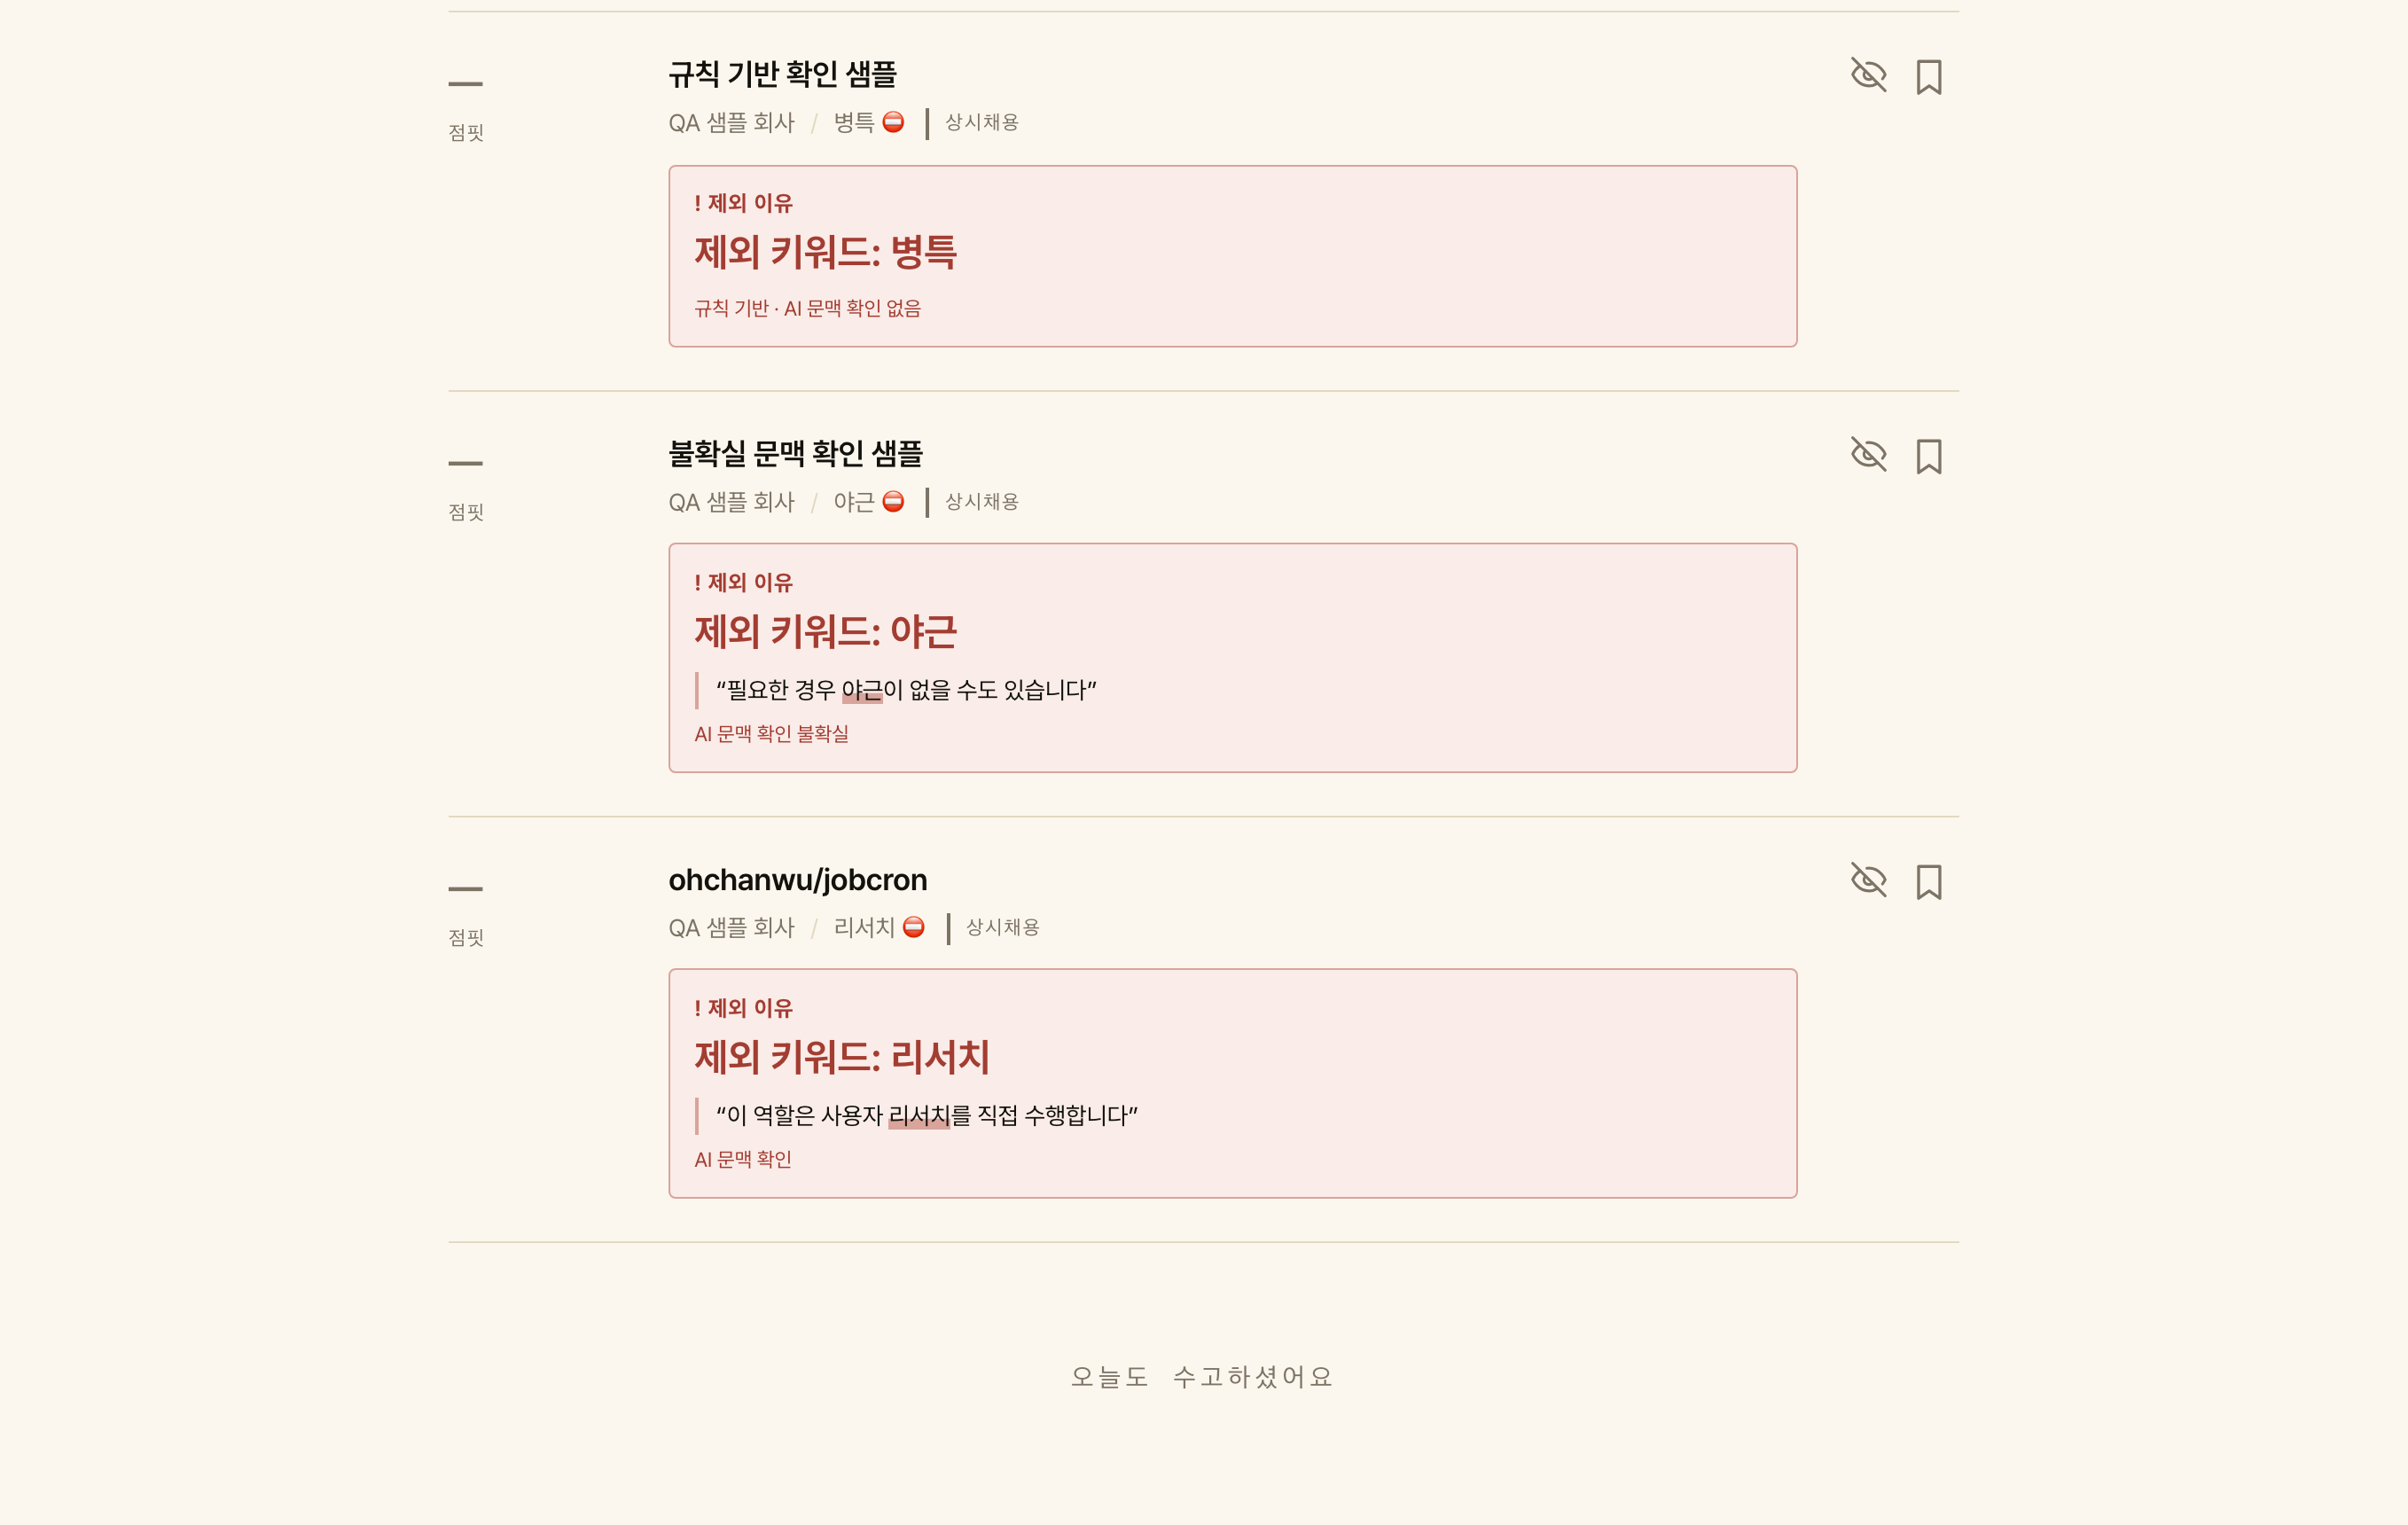
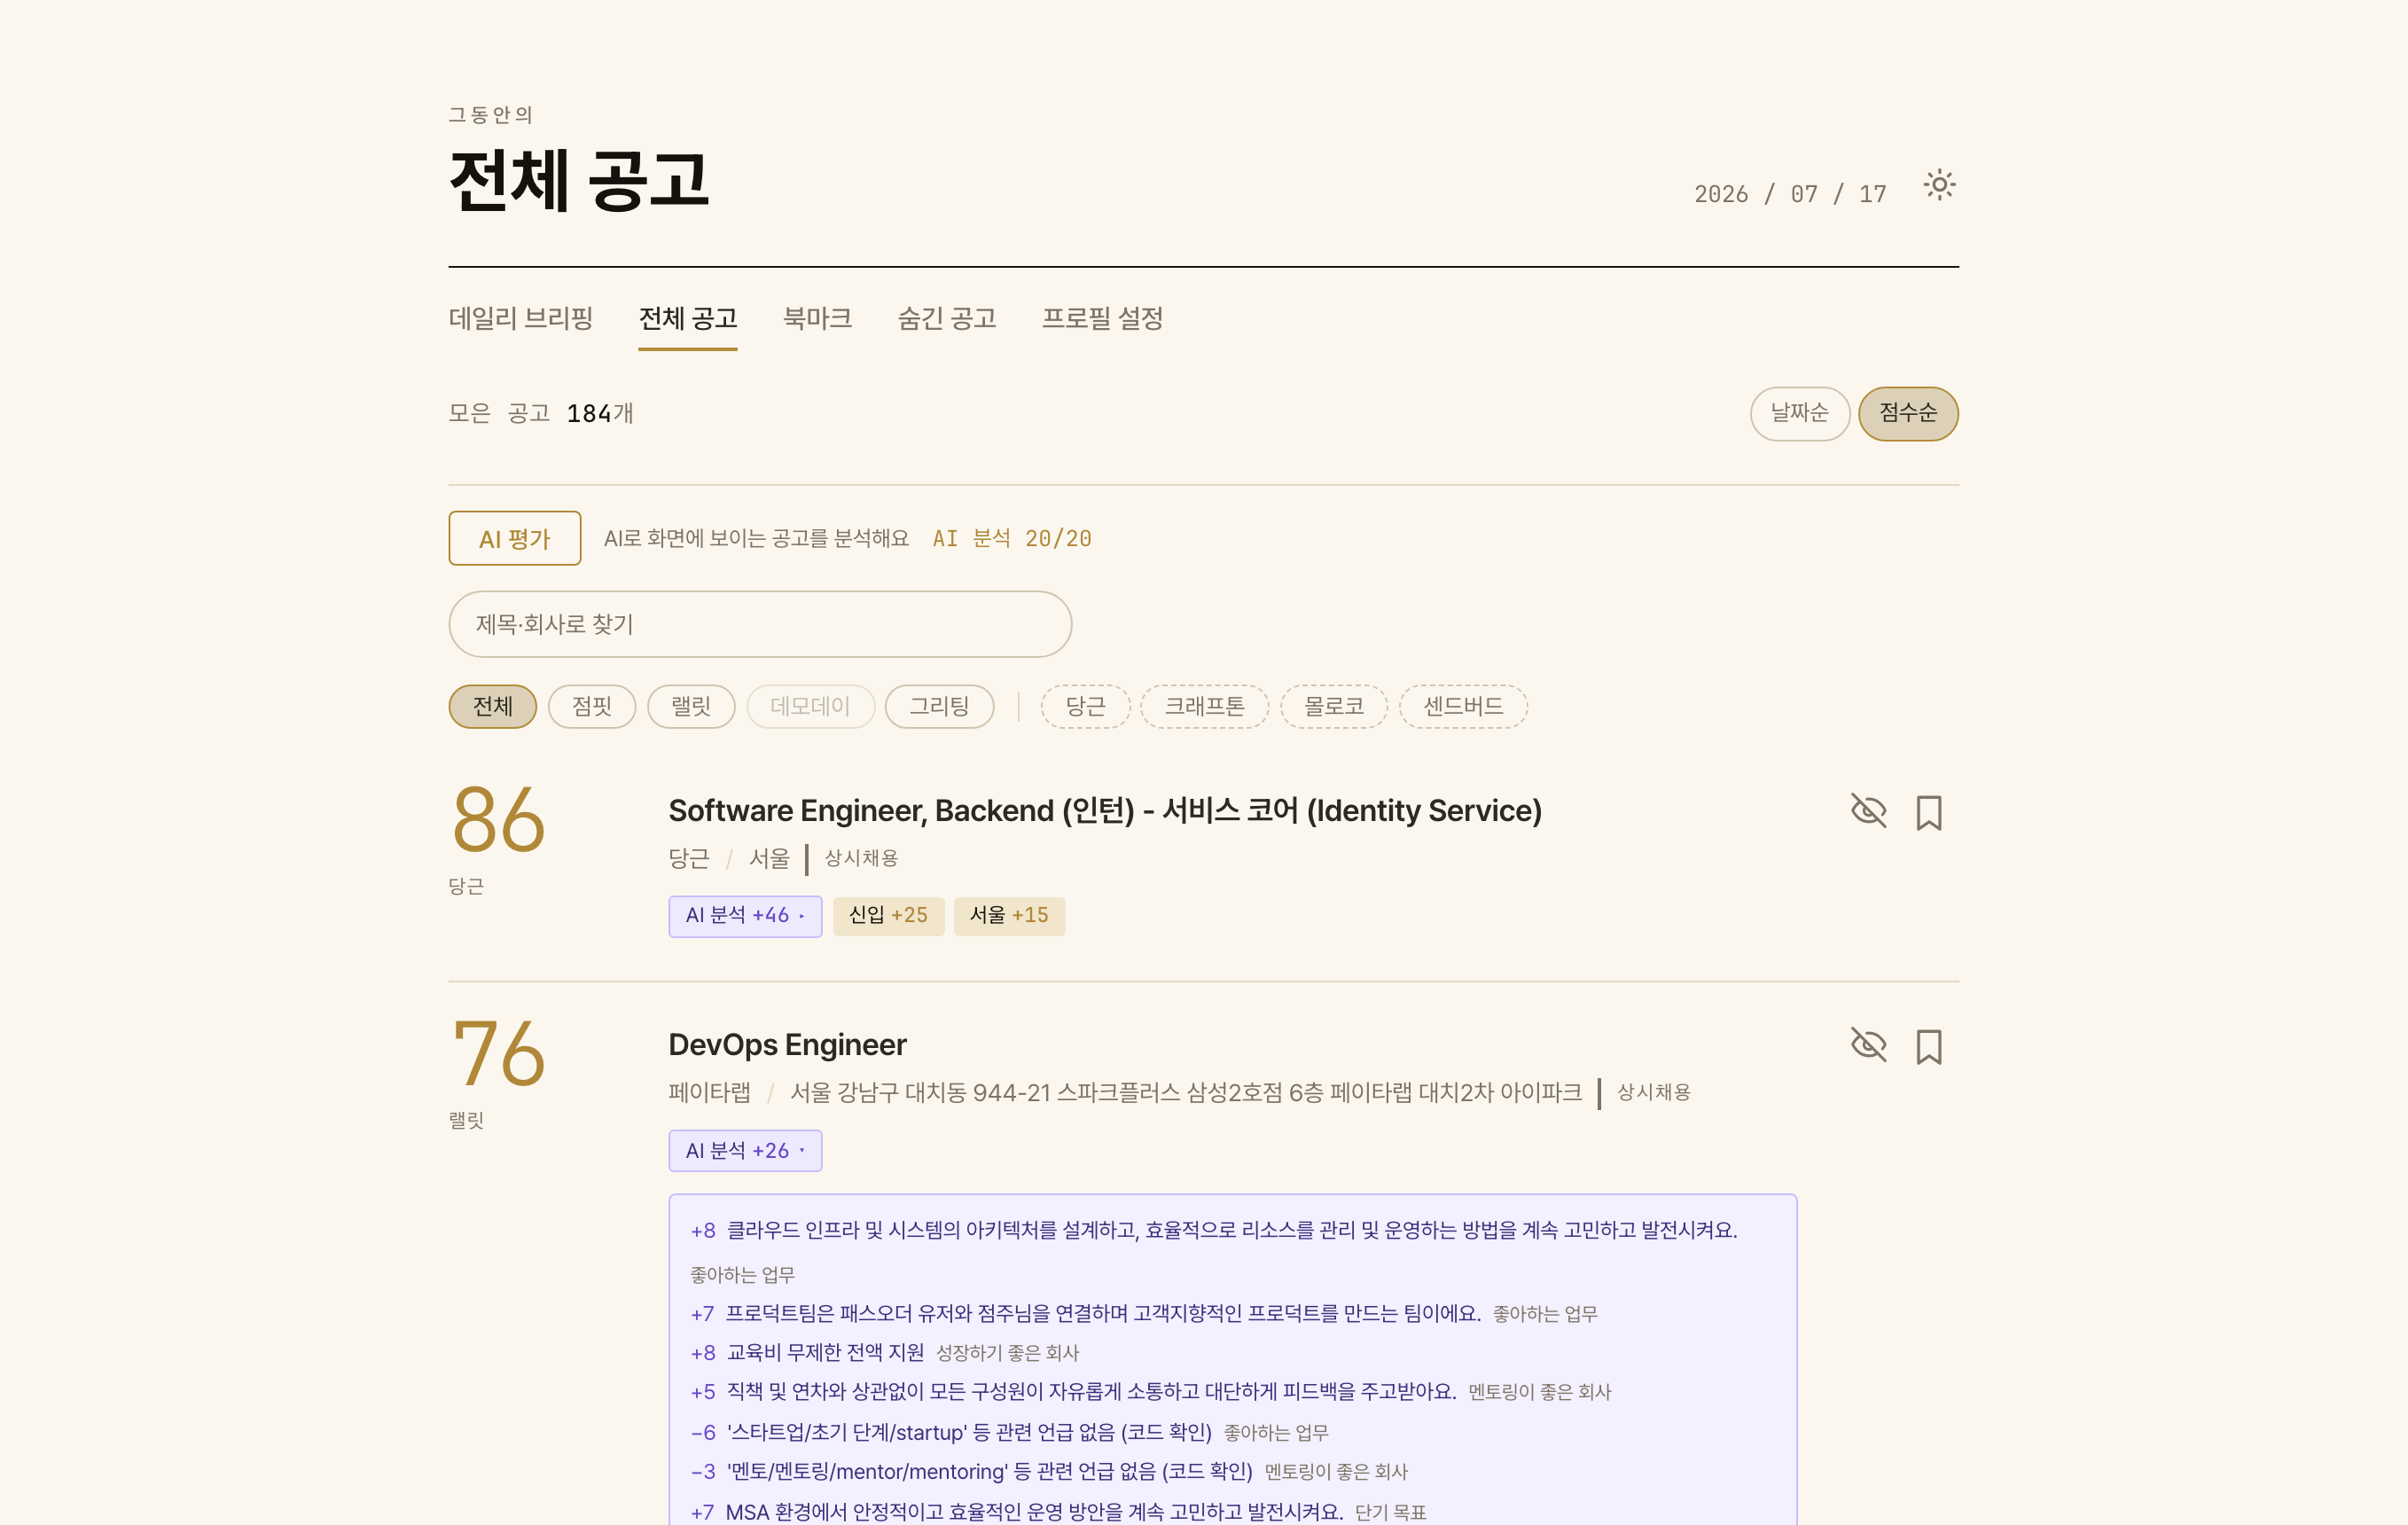
docs: restore README dashboard screenshots

diff --git a/README.ko.md b/README.ko.md
@@ -21,7 +21,7 @@ Jobcron은 한국 채용 플랫폼 [점핏 (Jumpit)](https://jumpit.saramin.co.k
 
 <picture>
   <source media="(prefers-color-scheme: dark)" srcset="docs/assets/screenshots/dashboard-dark.png">
-  <img src="docs/assets/screenshots/dashboard.png" alt="점수순으로 정렬된 전체 공고 페이지의 소스 필터와 AI 평가 칩">
+  <img src="docs/assets/screenshots/dashboard.png" alt="점수순으로 정렬된 전체 공고 페이지의 소스 필터와 펼쳐진 AI 평가 패널">
 </picture>
 
 ## 왜 만들었나 (Why)

diff --git a/README.md b/README.md
@@ -21,7 +21,7 @@ API key — see *Usage*.)
 
 <picture>
   <source media="(prefers-color-scheme: dark)" srcset="docs/assets/screenshots/dashboard-dark.png">
-  <img src="docs/assets/screenshots/dashboard.png" alt="Expanded out-of-interest postings with visible exclusion reasons and evidence">
+  <img src="docs/assets/screenshots/dashboard.png" alt="Score-sorted all-postings page with source filters and an expanded AI evaluation panel">
 </picture>
 
 ## Why